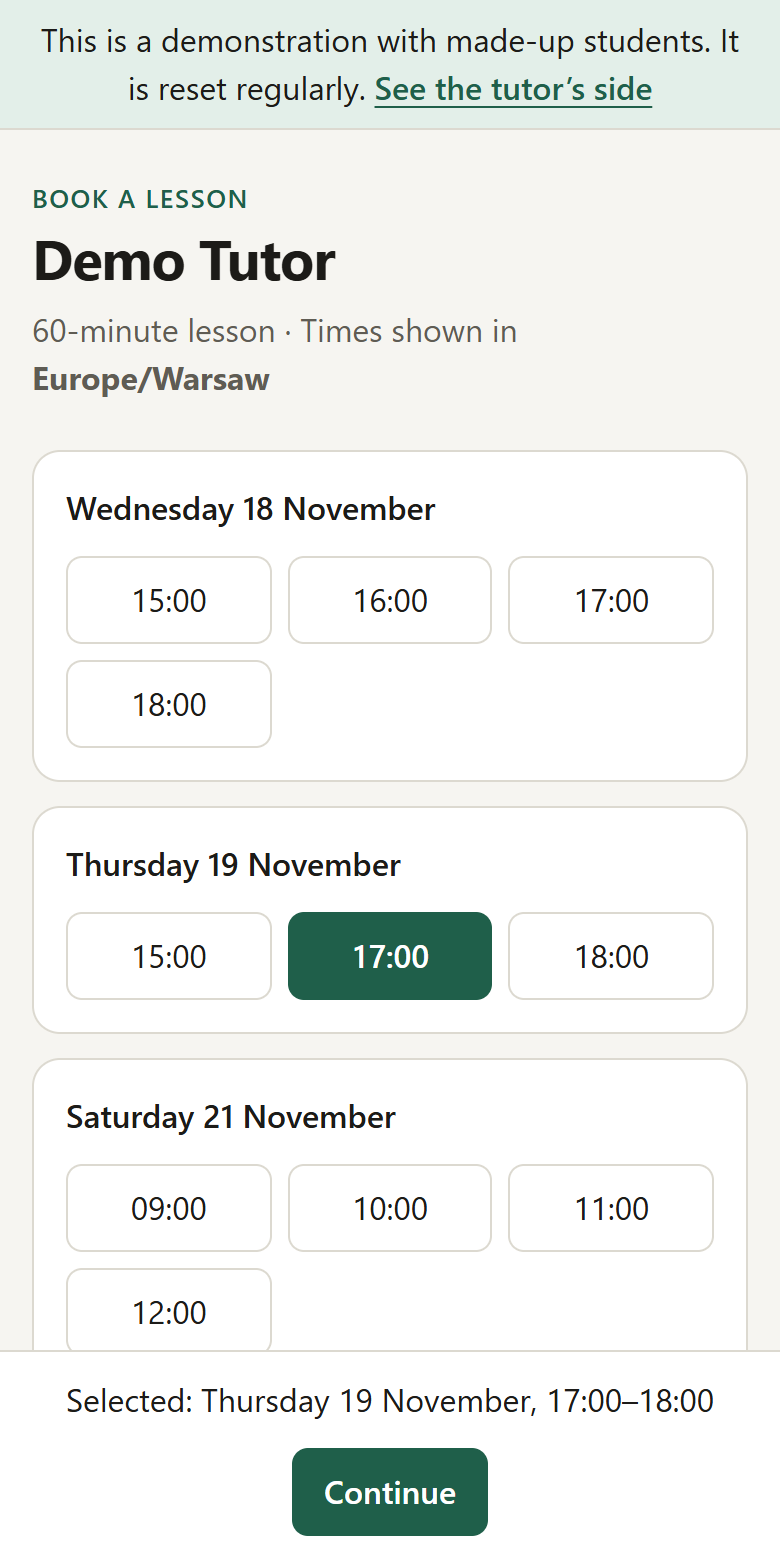
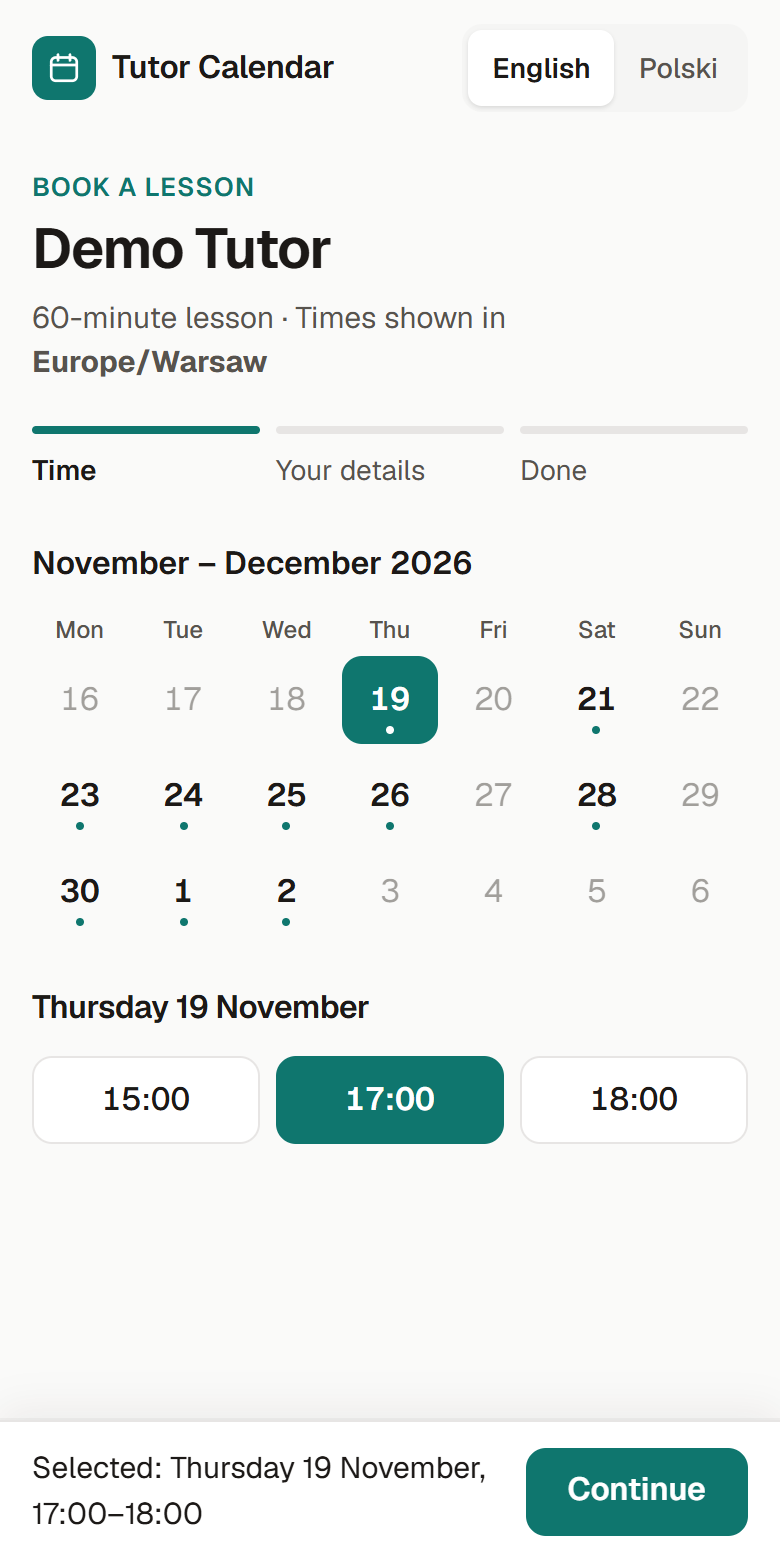
Show the redesigned interface in the README screenshots (#10)
The three screenshots are taken again from the live demo, in English, with the demo banner hidden: the tutor's week with a lesson asking whether to cancel, the booking page on a phone with a time picked, and the statement a parent opens from a link. The alt text describes the new layout.

diff --git a/README.md b/README.md
@@ -18,11 +18,11 @@ around that workflow.
 
 <p>
   <img src="docs/screenshots/week.png" width="100%"
-       alt="The tutor's week: a row for each day, and in it each lesson with its time, the student's name and address and a button to cancel. One lesson is asking whether to cancel, and says the student will not be charged.">
+       alt="The tutor's week: a sidebar with the panel's sections, a strip of the seven days with their lesson counts, and a row for each day with each lesson's time, the student's initials, name and address, a Weekly label and a button. One lesson is asking, on a red background, whether to cancel, and says the student is not charged.">
 </p>
 <p>
   <img src="docs/screenshots/booking.png" width="31%" align="top"
-       alt="The booking page on a phone: free times listed by day, one of them picked, and a bar at the bottom with the picked time and a Continue button.">
+       alt="The booking page on a phone: the three booking steps, a calendar of November and December with a dot under each day that has free times, the times of the chosen Thursday with 17:00 picked, and a bar at the bottom with the picked time and a Continue button.">
   <img src="docs/screenshots/statement.png" width="66%" align="top"
        alt="A student's statement for November: nine hours at the start of the month, three lessons of one hour each, six hours left.">
 </p>
